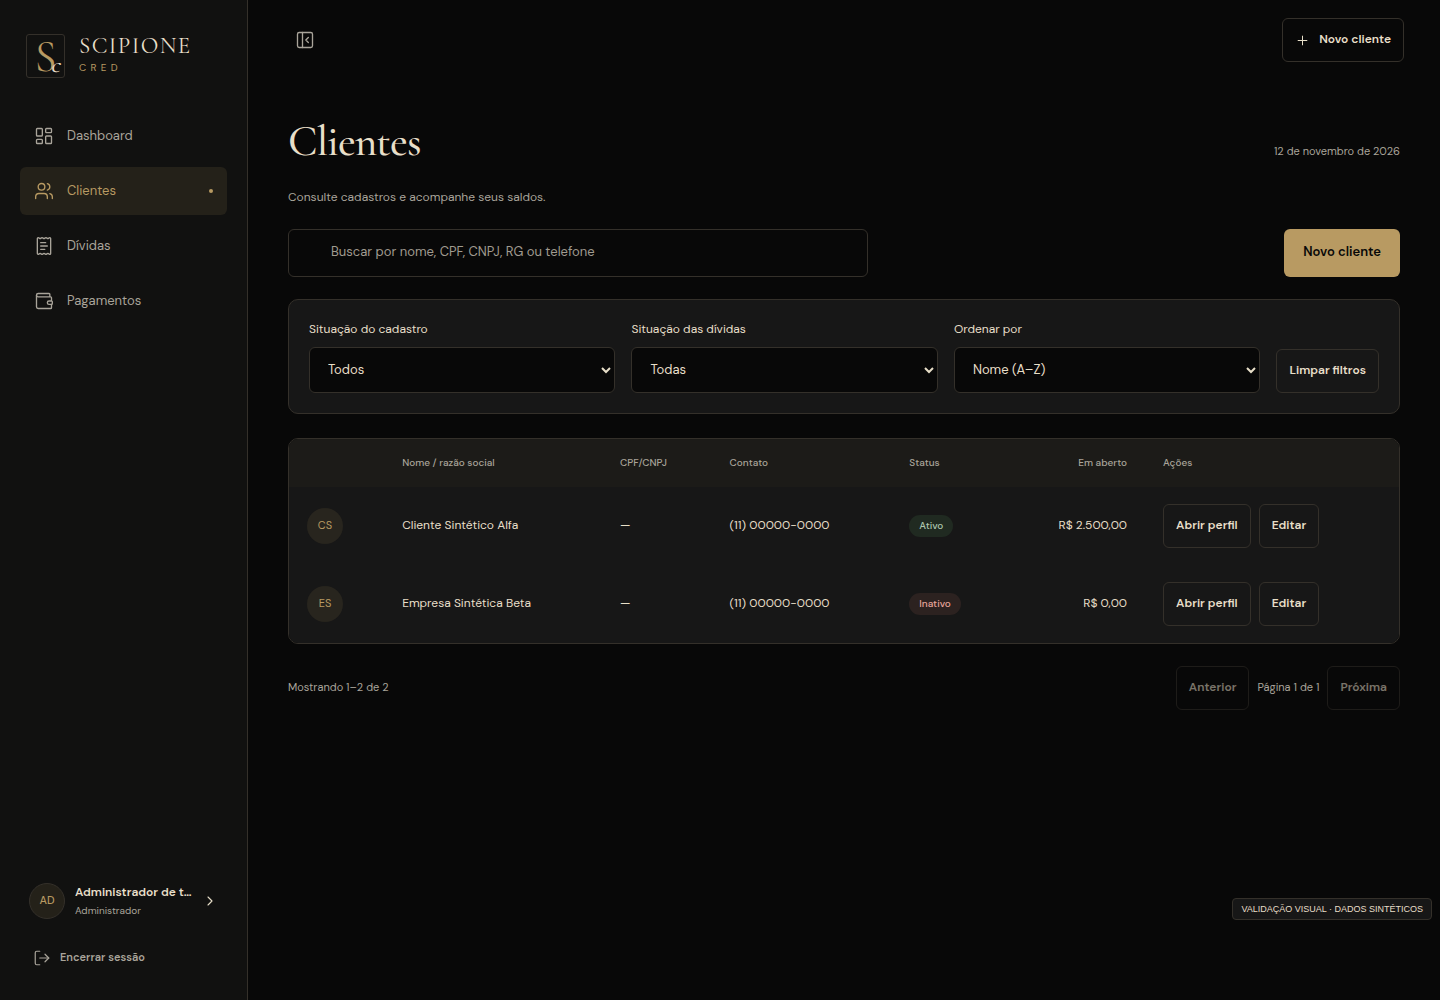
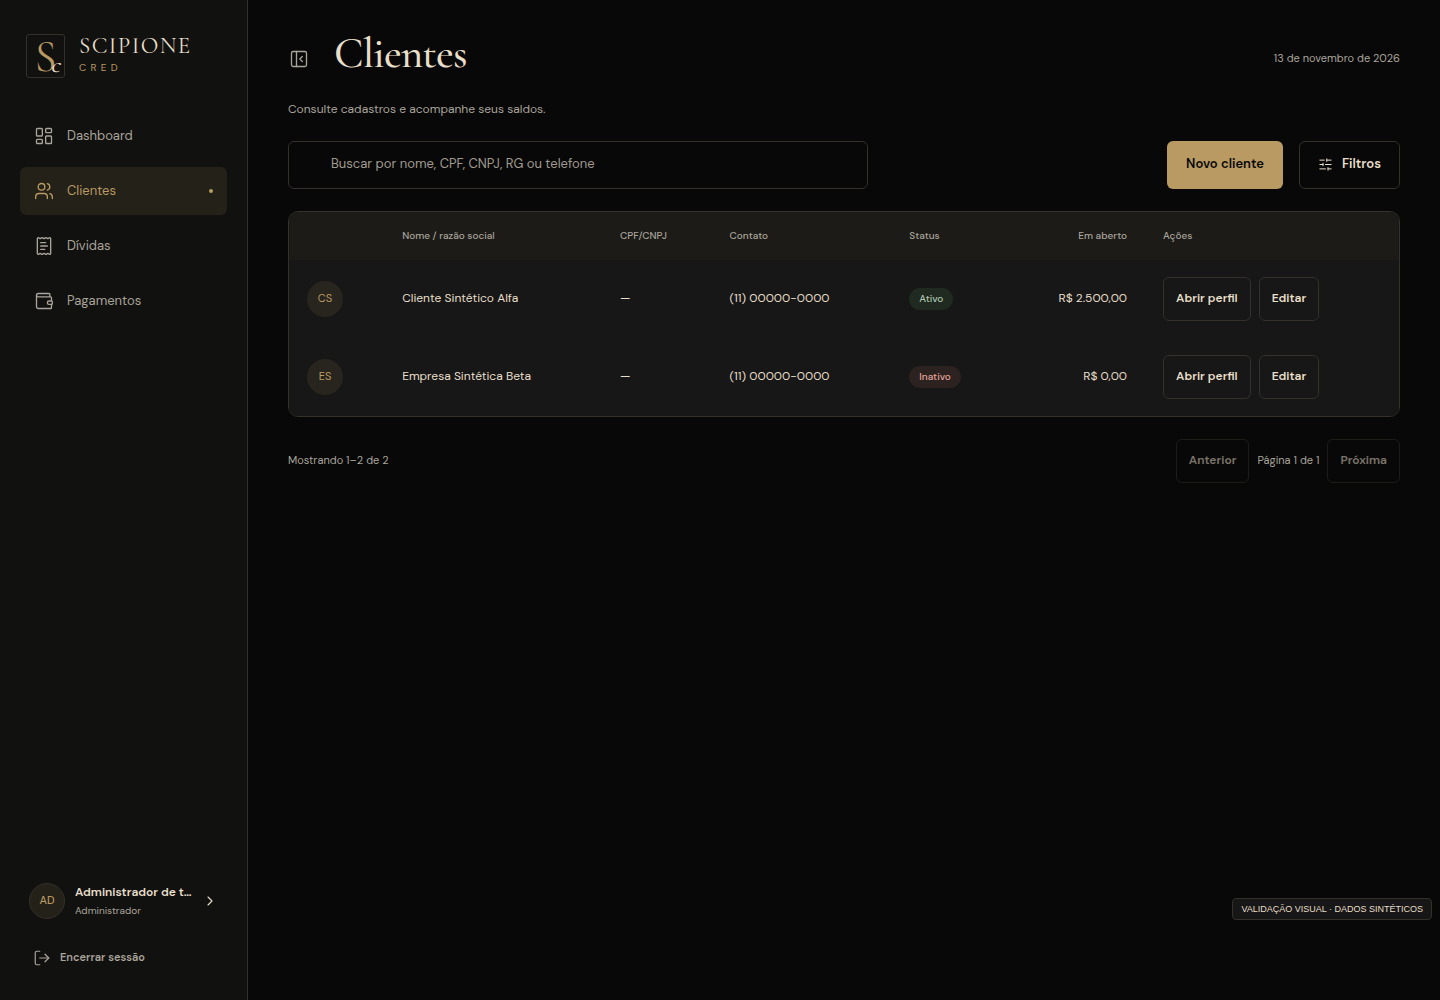
style: tirar a barra superior do desktop e alinhar o menu ao titulo
A acao Novo cliente duplicada sai do canto superior direito; o titulo abre a pagina com o botao de recolher o menu ao lado, alinhado a esquerda do conteudo. A barra superior continua existindo apenas no mobile, com a marca e o perfil.

diff --git a/src/components/pagina.js b/src/components/pagina.js
@@ -33,9 +33,9 @@ export function pagina(raiz, { titulo, descricao = '', voltar = null, admin = ad
       <button type="button" id="perfil-admin" class="admin-profile" title="Perfil administrativo"><span class="admin-avatar">${esc(iniciais)}</span><span class="admin-info"><strong>${esc(nome)}</strong><small>Administrador</small></span>${icon('chevron-right', 16)}</button>
       <button type="button" id="sair" class="logout" title="Encerrar sessão">${icon('log-out', 18)}<span>Encerrar sessão</span></button></div>
     </aside>
-    <div class="workspace"><header class="topo"><div class="topo-left"><button type="button" id="recolher-menu" class="icon-button" aria-label="${collapsed ? 'Expandir' : 'Recolher'} menu" aria-expanded="${!collapsed}" title="${collapsed ? 'Expandir' : 'Recolher'} menu">${icon(collapsed ? 'panel-left-open' : 'panel-left-close', 20)}</button><a class="mobile-brand" href="#/">SCIPIONE <span>CRED</span></a></div>
-    <div class="topo-right"><button type="button" class="admin-avatar mobile-profile" id="perfil-mobile" aria-label="Perfil e sessão">${esc(iniciais)}</button><a class="btn peq sec header-action" href="#/devedores/novo">${icon('plus', 15)} Novo cliente</a></div></header>
-    <main class="pg" id="pagina-principal">${voltar ? `<a class="back-link" href="#${esc(voltar.href)}">${icon('arrow-left', 16)} ${esc(voltar.texto)}</a>` : ''}<div class="page-heading"><h1>${esc(titulo)}</h1><span class="page-date">${esc(new Intl.DateTimeFormat('pt-BR', { day: 'numeric', month: 'long', year: 'numeric', timeZone: 'America/Sao_Paulo' }).format(new Date()))}</span></div>${descricao ? `<p class="page-description">${esc(descricao)}</p>` : ''}<div id="conteudo" tabindex="-1"></div></main></div>
+    <div class="workspace"><header class="topo"><a class="mobile-brand" href="#/">SCIPIONE <span>CRED</span></a>
+    <div class="topo-right"><button type="button" class="admin-avatar mobile-profile" id="perfil-mobile" aria-label="Perfil e sessão">${esc(iniciais)}</button></div></header>
+    <main class="pg" id="pagina-principal">${voltar ? `<a class="back-link" href="#${esc(voltar.href)}">${icon('arrow-left', 16)} ${esc(voltar.texto)}</a>` : ''}<div class="page-heading"><button type="button" id="recolher-menu" class="icon-button menu-toggle" aria-label="${collapsed ? 'Expandir' : 'Recolher'} menu" aria-expanded="${!collapsed}" title="${collapsed ? 'Expandir' : 'Recolher'} menu">${icon(collapsed ? 'panel-left-open' : 'panel-left-close', 20)}</button><h1>${esc(titulo)}</h1><span class="page-date">${esc(new Intl.DateTimeFormat('pt-BR', { day: 'numeric', month: 'long', year: 'numeric', timeZone: 'America/Sao_Paulo' }).format(new Date()))}</span></div>${descricao ? `<p class="page-description">${esc(descricao)}</p>` : ''}<div id="conteudo" tabindex="-1"></div></main></div>
     <nav class="mobile-nav" aria-label="Navegação mobile">${nav}</nav></div>`;
   const q = (s) => raiz.querySelector(s);
   q('.skip-link').addEventListener('click', (event) => { event.preventDefault(); q('#conteudo').focus(); });

diff --git a/src/styles/base.css b/src/styles/base.css
@@ -56,12 +56,13 @@ strong { font-weight: 600; }
 .logout:hover { background: var(--painel); color: var(--marfim); }
 .workspace { margin-left: var(--sidebar-width); transition: margin-left var(--transition); }
 .topo { height: 80px; padding: 0 36px; display: flex; justify-content: space-between; align-items: center; gap: 20px; background: var(--fundo); }
-.topo-left, .topo-right { display: flex; align-items: center; gap: 18px; min-width: 0; }
+.topo-right { display: flex; align-items: center; gap: 18px; min-width: 0; margin-left: auto; }
 .mobile-brand, .mobile-profile, .mobile-nav { display: none; }
-.pg { padding: 38px 40px 24px; max-width: 1600px; margin: 0 auto; }
-.page-heading { display: flex; justify-content: space-between; align-items: baseline; gap: 24px; margin-bottom: 22px; }
+.pg { padding: 30px 40px 24px; max-width: 1600px; margin: 0 auto; }
+.page-heading { display: flex; align-items: center; gap: 14px; margin-bottom: 22px; }
 .page-description { font-size: 12px; color: var(--muted); max-width: 650px; margin: -10px 0 22px; }
-.page-date { font-size: 11px; color: var(--muted); white-space: nowrap; }
+.page-date { margin-left: auto; font-size: 11px; color: var(--muted); white-space: nowrap; }
+.menu-toggle { margin-left: -10px; }
 .back-link { display: inline-flex; gap: 8px; align-items: center; color: var(--muted); text-decoration: none; font-size: 11px; margin-bottom: 22px; }
 .sidebar-collapsed { --sidebar-width: 80px; }
 .sidebar-collapsed .sidebar { padding: 34px 12px 20px; }
@@ -283,7 +284,7 @@ dd { margin: 0; overflow-wrap: anywhere; }
   .sidebar { display: none; }
   .workspace { margin: 0; }
   .topo { height: 68px; padding: 0 20px; position: sticky; top: 0; z-index: 15; }
-  #recolher-menu, .topo-context, .header-action, .access-label { display: none; }
+  #recolher-menu, .topo-context, .access-label { display: none; }
   .mobile-brand { display: block; color: var(--marfim); text-decoration: none; font: 21px var(--font-display); letter-spacing: .06em; }
   .mobile-brand span { color: var(--ouro); }
   .mobile-profile { display: inline-flex; width: 44px; min-height: 44px; }
@@ -551,6 +552,10 @@ dd { margin: 0; overflow-wrap: anywhere; }
   .debt-card .actions-inline > * { min-width: 0; height: 44px; min-height: 44px; padding: 0 8px; font-size: 11.5px; line-height: 1.1; text-align: center; }
 }
 
+/* Desktop: sem barra superior — o título abre a página e o botão do menu fica ao lado dele. */
+@media (min-width: 768px) {
+  .topo { display: none; }
+}
 /* Desktop: busca à esquerda e ações da lista agrupadas à direita (filtros ao lado da ação principal). */
 @media (min-width: 768px) {
   .list-toolbar { justify-content: flex-start; }
